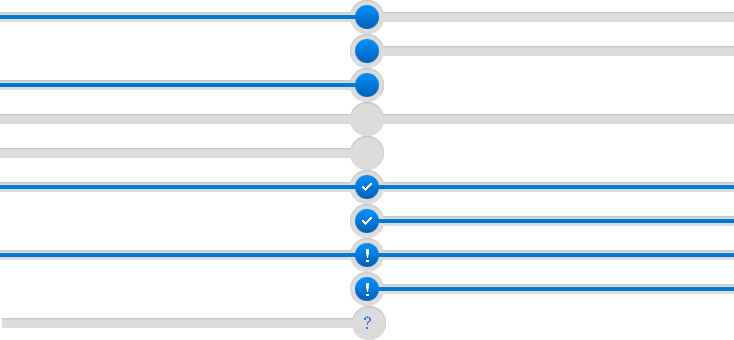
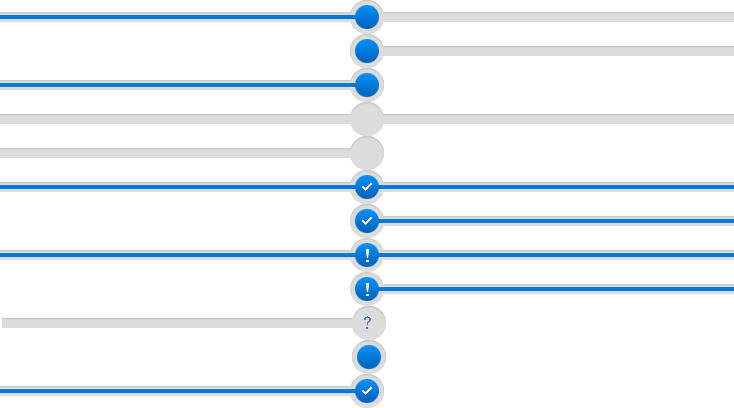
修改TrankSimple.aspx页面为横向流水信息展示图

diff --git a/CCFlow/WF/Admin/CCBPMDesigner/truck/FlowDesignerSvr.asmx.cs b/CCFlow/WF/Admin/CCBPMDesigner/truck/FlowDesignerSvr.asmx.cs
@@ -542,7 +542,7 @@ SELECT No, FK_FlowSort as ParentNo,Name,Idx,0 IsParent FROM WF_Flow
                 {
                     //获取流程信息，added by liuxc,2016-10-26
                     sql =
-                        "SELECT wgwf.Starter,wgwf.StarterName,wgwf.RDT FROM WF_GenerWorkFlow AS wgwf WHERE wgwf.WorkID = " +
+                        "SELECT wgwf.Starter,wgwf.StarterName,wgwf.RDT,wgwf.WFSta,wgwf.WFState FROM WF_GenerWorkFlow AS wgwf WHERE wgwf.WorkID = " +
                         workid;
                     dt = DBAccess.RunSQLReturnTable(sql);
                     dt.TableName = "FLOWINFO";
@@ -550,7 +550,7 @@ SELECT No, FK_FlowSort as ParentNo,Name,Idx,0 IsParent FROM WF_Flow
 
                     //获取工作轨迹信息
                     var trackTable = "ND" + int.Parse(fk_flow) + "Track";
-                    sql = "SELECT NDFrom, NDTo,ActionType,ActionTypeText,Msg,RDT,EmpFrom,EmpFromT,EmpToT,EmpTo FROM " + trackTable +
+                    sql = "SELECT NDFrom,NDFromT, NDTo,NDToT, ActionType,ActionTypeText,Msg,RDT,EmpFrom,EmpFromT,EmpToT,EmpTo FROM " + trackTable +
                           " WHERE WorkID=" +
                           workid + (string.IsNullOrWhiteSpace(fid) || fid == "0" ? (" OR FID=" + workid) : (" OR WorkID=" + fid + " OR FID=" + fid)) + " ORDER BY RDT ASC";
                     dt = DBAccess.RunSQLReturnTable(sql);
